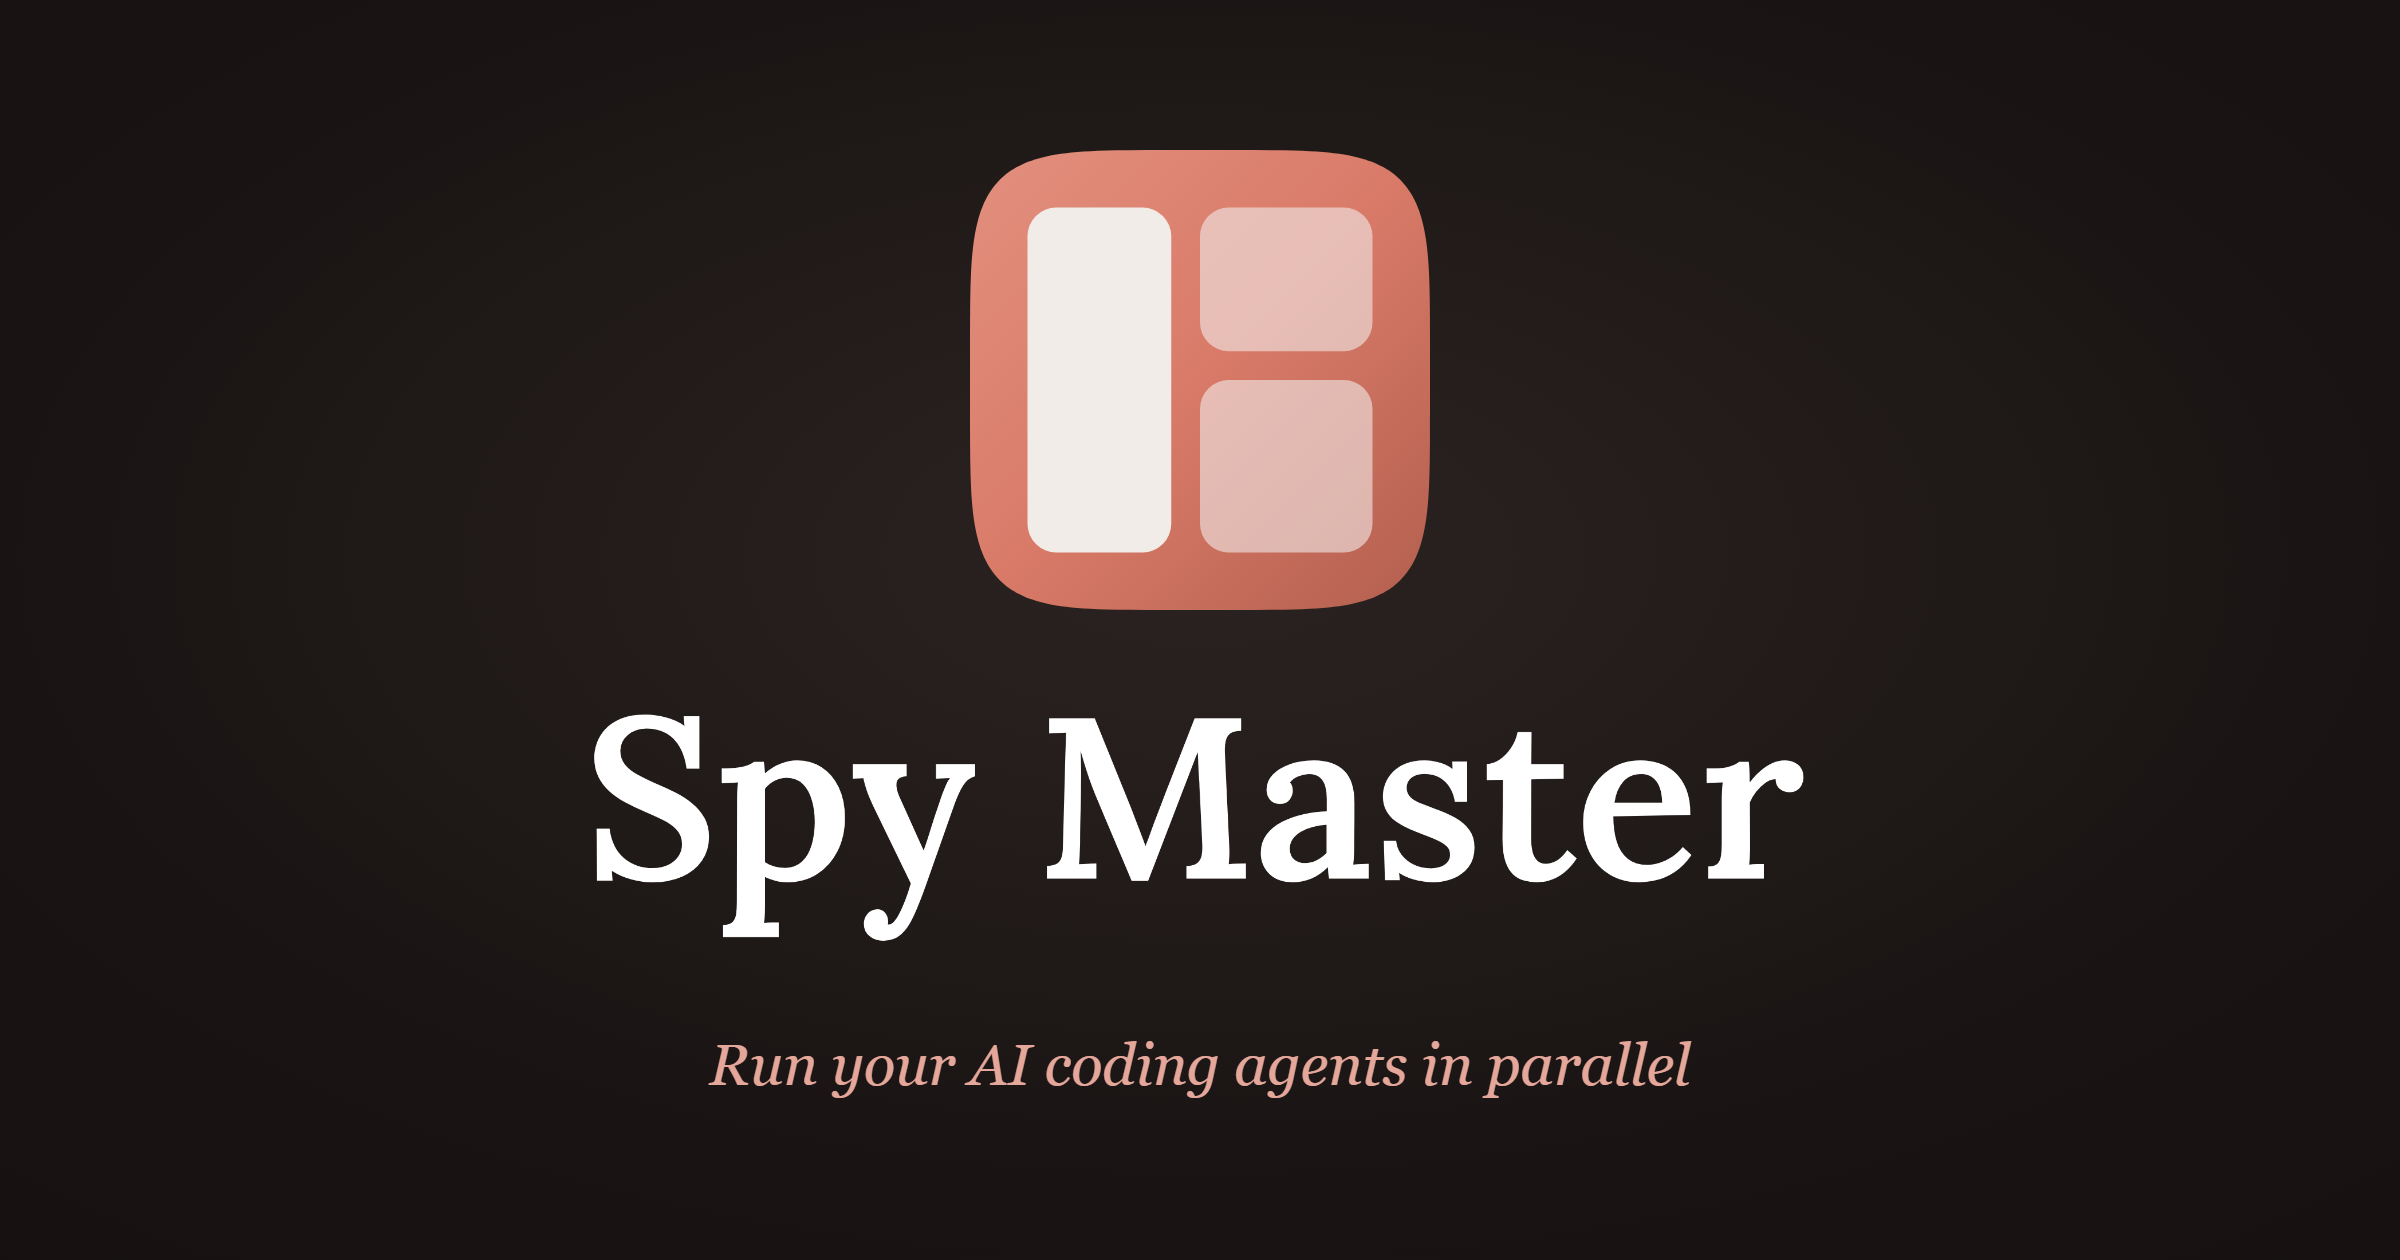
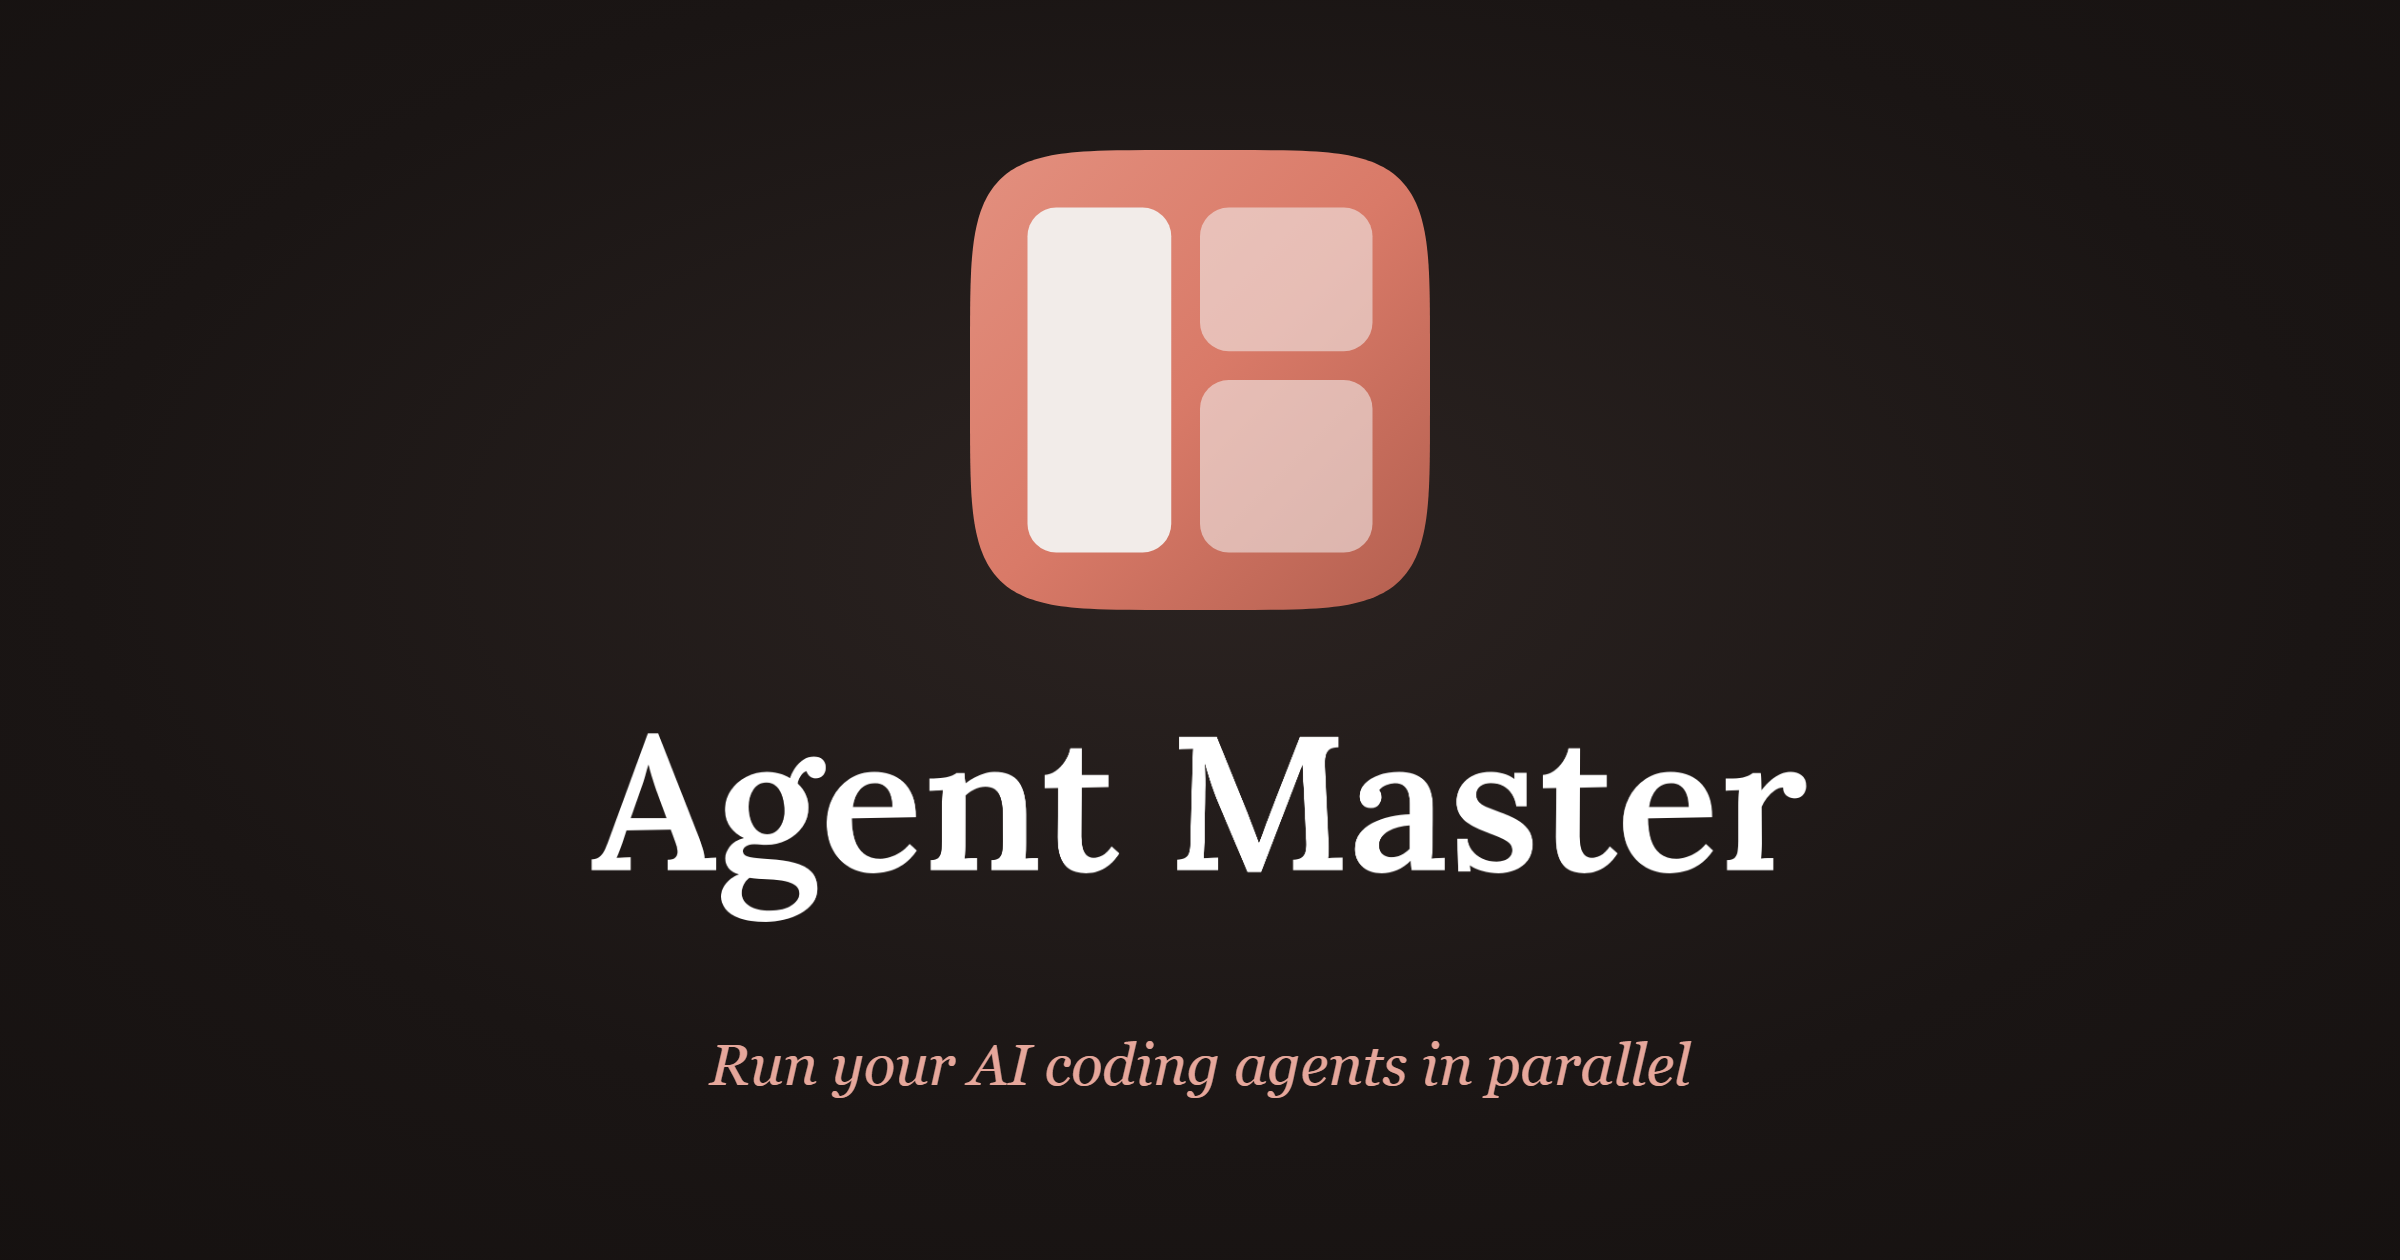
Rebrand the download site to Agent Master
Every name, URL and artifact filename moves onto the renamed repo: the
canonical and og:url become /agentmaster/, the release links point at
AgentMaster-*.dmg/.exe, and the quarantine command names the new .app.
Pages URLs do not redirect, so nothing here can be left behind.

The social card is re-rendered from the same artwork; only the embedded
wordmark changes, which already read "Agent Master" in the app.

The footer wordmark is re-fitted rather than left as-is: "Agent Master"
measures 18.5% wider than "Spy Master" at the same size, so the clamp is
scaled by that to hold the ~56% page footprint the mark has had since
"Monad". Measured in a browser at 390/768/1440/1920/2560, no horizontal
overflow at any of them.

Changed region(s): [[0.25, 0.5571, 0.75, 0.7429], [0.5, 0.5571, 0.5312, 0.5881]]

diff --git a/index.html b/index.html
@@ -3,29 +3,29 @@
   <head>
     <meta charset="utf-8" />
     <meta name="viewport" content="width=device-width, initial-scale=1" />
-    <title>Spy Master — run every coding agent in its own worktree</title>
+    <title>Agent Master — run every coding agent in its own worktree</title>
     <meta
       name="description"
-      content="Spy Master is a desktop app that runs Claude Code, Codex, Gemini and any other CLI coding agent side by side — each sealed in its own git worktree, with diff and merge built in. Free, MIT-licensed, bring your own CLIs."
+      content="Agent Master is a desktop app that runs Claude Code, Codex, Gemini and any other CLI coding agent side by side — each sealed in its own git worktree, with diff and merge built in. Free, MIT-licensed, bring your own CLIs."
     />
-    <link rel="canonical" href="https://serhiileniv.github.io/spymaster/" />
+    <link rel="canonical" href="https://serhiileniv.github.io/agentmaster/" />
     <meta name="theme-color" content="#100d0c" />
 
     <meta property="og:type" content="website" />
-    <meta property="og:site_name" content="Spy Master" />
-    <meta property="og:title" content="Spy Master — run every coding agent in its own worktree" />
+    <meta property="og:site_name" content="Agent Master" />
+    <meta property="og:title" content="Agent Master — run every coding agent in its own worktree" />
     <meta
       property="og:description"
       content="Five agents, one repo, nothing trampled. Run your AI coding agents in parallel — isolated git worktrees, live status, diff and merge built in. Bring your own CLIs."
     />
-    <meta property="og:url" content="https://serhiileniv.github.io/spymaster/" />
+    <meta property="og:url" content="https://serhiileniv.github.io/agentmaster/" />
     <!-- Versioned filenames: unfurl caches key on the URL, so a rename is the only
          way to dislodge a preview cached under the old artwork. `-panes` supersedes
          `-spymaster`, which carried the fedora figure the icon replaced. -->
-    <meta property="og:image" content="https://serhiileniv.github.io/spymaster/og-image-panes.png" />
+    <meta property="og:image" content="https://serhiileniv.github.io/agentmaster/og-image-panes.png" />
     <meta property="og:image:width" content="2400" />
     <meta property="og:image:height" content="1260" />
-    <meta property="og:image:alt" content="Spy Master — run every coding agent at once" />
+    <meta property="og:image:alt" content="Agent Master — run every coding agent at once" />
     <meta name="twitter:card" content="summary_large_image" />
 
     <link rel="icon" href="icon-panes.png" type="image/png" />
@@ -35,11 +35,11 @@
 
     <style>
       /* ------------------------------------------------------------------
-         Spy Master — landing page. Single file, no build step, no CDN.
+         Agent Master — landing page. Single file, no build step, no CDN.
 
          Art direction, and the reasons for it:
-           - The site now speaks the app's own voice. Spy Master's entire UI is
-             set in Lora ("Spy Master Serif" in the app bundle) with a red accent
+           - The site now speaks the app's own voice. Agent Master's entire UI is
+             set in Lora ("Agent Master Serif" in the app bundle) with a red accent
              on dark; the page uses the same face and the same softened
              dark-mode red, so the download and the thing downloaded are one
              brand. No Space Grotesk, no Inter — display is Lora, body is
@@ -729,20 +729,21 @@
          against a rendered screenshot; the numbers are deliberate. */
       .wm {
         margin-top: 34px;
-        /* Raised from 0.74em with the rename: "Monad" had no descenders,
-           "Spy Master" has two, and cropping straight through the p and the y
-           reads as a bug rather than as a deliberate bleed. */
+        /* Raised from 0.74em when the name grew descenders: "Monad" had none,
+           and cropping straight through the g of "Agent" reads as a bug rather
+           than as a deliberate bleed. */
         height: 0.88em;
         overflow: hidden;
         font-family: var(--font-display);
         font-style: italic;
         font-weight: 550;
-        /* Halved from 20vw, which was tuned for a five-letter name. "Spy Master"
-           is twice as long; at 20vw it overflowed the page and rendered as
-           "Spy" with the rest clipped off both sides. ~10.5vw restores the
-           footprint the mark had before, and the max holds that width on very
-           wide screens. */
-        font-size: clamp(60px, 10.5vw, 152px);
+        /* The footprint is the constant here, not the size: every rename has
+           been re-fitted so the word occupies the same share of the page it
+           did as "Monad" (~56% at desktop widths). 20vw suited five letters;
+           "Spy Master" needed 10.5vw; "Agent Master" measures 18.5% wider
+           again, so each number is the previous one scaled by that. Re-measure
+           rather than eyeball it if the name ever changes again. */
+        font-size: clamp(51px, 8.85vw, 128px);
         line-height: 0.72;
         letter-spacing: 0.015em;
         text-align: center;
@@ -765,13 +766,13 @@
              existed because the old dark mark vanished into this dark bar; the
              terracotta tile was chosen precisely so it does not, so the header
              can show the icon the visitor is about to download. -->
-        <a class="brand" href="#top" aria-label="Spy Master — home">
+        <a class="brand" href="#top" aria-label="Agent Master — home">
           <img src="logo-mark-panes.png" alt="" width="34" height="34" />
         </a>
         <div class="nav-right">
           <a class="hide-sm" href="#how">how&nbsp;it&nbsp;works</a>
-          <a class="hide-sm" href="https://github.com/serhiileniv/spymaster/blob/main/docs/FAQ.md">FAQ</a>
-          <a class="hide-sm" href="https://github.com/serhiileniv/spymaster">GitHub</a>
+          <a class="hide-sm" href="https://github.com/serhiileniv/agentmaster/blob/main/docs/FAQ.md">FAQ</a>
+          <a class="hide-sm" href="https://github.com/serhiileniv/agentmaster">GitHub</a>
           <a class="nav-dl" href="#download">Download</a>
         </div>
       </div>
@@ -788,7 +789,7 @@
               <a
                 id="dl-primary"
                 class="btn"
-                href="https://github.com/serhiileniv/spymaster/releases/latest/download/SpyMaster-macOS-arm64.dmg"
+                href="https://github.com/serhiileniv/agentmaster/releases/latest/download/AgentMaster-macOS-arm64.dmg"
               >
                 <svg viewBox="0 0 24 24" fill="currentColor" aria-hidden="true" focusable="false">
                   <path
@@ -800,7 +801,7 @@
               <a
                 id="dl-secondary"
                 class="btn-alt"
-                href="https://github.com/serhiileniv/spymaster/releases/latest/download/SpyMaster-Windows-Setup.exe"
+                href="https://github.com/serhiileniv/agentmaster/releases/latest/download/AgentMaster-Windows-Setup.exe"
                 ><span id="dl-secondary-label">or Windows</span></a
               >
               <span class="cta-meta">
@@ -808,7 +809,7 @@
                      Releases API. It is what visitors see when that fetch
                      fails, most often the unauthenticated GitHub API's
                      60 req/hr per-IP limit, so bump it at release time. -->
-                <span id="ver-text"><b>v0.1.28</b></span>
+                <span id="ver-text"><b>v0.1.31</b></span>
               </span>
             </div>
 
@@ -821,7 +822,7 @@
         </header>
 
         <!-- ---------------------------------------------------------- demo -->
-        <section class="demo-band" aria-label="Spy Master in action">
+        <section class="demo-band" aria-label="Agent Master in action">
           <div class="demo-frame">
             <video
               class="demo"
@@ -832,7 +833,7 @@
               muted
               playsinline
               preload="metadata"
-              aria-label="Six coding agents running in parallel in Spy Master, each in its own git worktree"
+              aria-label="Six coding agents running in parallel in Agent Master, each in its own git worktree"
             ></video>
           </div>
           <p class="demo-cap">Six agents in parallel: each a real terminal, each on its own branch.</p>
@@ -888,9 +889,9 @@
               <circle cx="642" cy="170" r="5.5" fill="#ff7a6b" />
               <text x="642" y="206" text-anchor="middle" fill="#99897e">merged, by you</text>
               <!-- branch names -->
-              <text x="180" y="26" fill="#7c6e64">spymaster/gemini</text>
-              <text x="250" y="82" fill="#7c6e64">spymaster/claude</text>
-              <text x="380" y="274" fill="#7c6e64">spymaster/codex</text>
+              <text x="180" y="26" fill="#7c6e64">agentmaster/gemini</text>
+              <text x="250" y="82" fill="#7c6e64">agentmaster/claude</text>
+              <text x="380" y="274" fill="#7c6e64">agentmaster/codex</text>
               <!-- live status -->
               <circle cx="600" cy="248" r="4" fill="#86b893" />
               <text x="612" y="252.5" fill="#86b893">working</text>
@@ -936,7 +937,7 @@
 ├─ <span class="dir">.git/</span>
 ├─ <span class="yours">src/</span>                     <span class="note">← your working tree, untouched</span>
 ├─ <span class="yours">package.json</span>
-└─ <span class="dir">.spymaster-worktrees/</span>
+└─ <span class="dir">.agentmaster-worktrees/</span>
    ├─ <span class="dir">claude/</span>              <span class="on">● working</span>
    ├─ <span class="dir">codex/</span>               <span class="wait">● waiting for you</span>
    └─ <span class="dir">gemini/</span>              <span class="note">● idle</span></pre>
@@ -947,7 +948,7 @@
             <h2>Your working tree is never <em>one of them.</em></h2>
             <p>
               Running several agents on one checkout normally means they overwrite each other's edits,
-              and yours. Spy Master gives each agent <b>its own branch and its own git worktree</b>: a
+              and yours. Agent Master gives each agent <b>its own branch and its own git worktree</b>: a
               real, separate directory on disk, backed by the same repository.
             </p>
             <p>
@@ -960,7 +961,7 @@
         <!-- ----------------------------------------------------- download -->
         <section class="dl" id="download">
           <div class="dl-head">
-            <h2>Download Spy Master</h2>
+            <h2>Download Agent Master</h2>
             <p>
               Free and MIT-licensed. Runs on your machine against your repo: no account, no
               telemetry, and no inference cost, because it drives the agent CLIs you already pay for.
@@ -968,7 +969,7 @@
           </div>
 
           <p class="prereq">
-            <b>Install an agent CLI first.</b> Spy Master orchestrates the tools you already run; it
+            <b>Install an agent CLI first.</b> Agent Master orchestrates the tools you already run; it
             doesn't ship a model of its own. Have at least one of <code>claude</code>,
             <code>codex</code>, <code>gemini</code> or <code>cursor-agent</code> on your PATH, then
             open a git repo and add your first agent.
@@ -989,18 +990,18 @@
               </div>
               <div>
                 <p class="plat-note">
-                  Drag Spy Master to Applications, then run this once: macOS marks unsigned downloads
+                  Drag Agent Master to Applications, then run this once: macOS marks unsigned downloads
                   &ldquo;damaged&rdquo; until the quarantine flag is cleared.
                 </p>
                 <div class="cmd">
-                  <code id="mac-cmd">xattr -dr com.apple.quarantine "/Applications/Spy Master.app"</code>
+                  <code id="mac-cmd">xattr -dr com.apple.quarantine "/Applications/Agent Master.app"</code>
                   <button class="copy" type="button" data-copy="mac-cmd">copy</button>
                 </div>
               </div>
               <a
                 id="dl-mac-install"
                 class="btn"
-                href="https://github.com/serhiileniv/spymaster/releases/latest/download/SpyMaster-macOS-arm64.dmg"
+                href="https://github.com/serhiileniv/agentmaster/releases/latest/download/AgentMaster-macOS-arm64.dmg"
                 >Download</a
               >
             </div>
@@ -1024,16 +1025,16 @@
               <a
                 id="dl-win-install"
                 class="btn"
-                href="https://github.com/serhiileniv/spymaster/releases/latest/download/SpyMaster-Windows-Setup.exe"
+                href="https://github.com/serhiileniv/agentmaster/releases/latest/download/AgentMaster-Windows-Setup.exe"
                 >Download</a
               >
             </div>
           </div>
 
           <div class="dl-foot">
-            <a href="https://github.com/serhiileniv/spymaster/releases">all releases &amp; checksums</a>
-            <a href="https://github.com/serhiileniv/spymaster/blob/main/docs/FAQ.md">FAQ</a>
-            <a href="https://github.com/serhiileniv/spymaster/issues">report a bug</a>
+            <a href="https://github.com/serhiileniv/agentmaster/releases">all releases &amp; checksums</a>
+            <a href="https://github.com/serhiileniv/agentmaster/blob/main/docs/FAQ.md">FAQ</a>
+            <a href="https://github.com/serhiileniv/agentmaster/issues">report a bug</a>
           </div>
         </section>
       </div>
@@ -1043,21 +1044,21 @@
       <div class="wrap">
         <div class="foot-meta">
           <span>Built by Serhii Leniv · MIT</span>
-          <a href="https://github.com/serhiileniv/spymaster">GitHub</a>
-          <a href="https://github.com/serhiileniv/spymaster/releases">changelog</a>
+          <a href="https://github.com/serhiileniv/agentmaster">GitHub</a>
+          <a href="https://github.com/serhiileniv/agentmaster/releases">changelog</a>
         </div>
       </div>
-      <div class="wm" aria-hidden="true">Spy Master</div>
+      <div class="wm" aria-hidden="true">Agent Master</div>
     </footer>
 
     <script>
       // ---- Download UX: detect OS, order the buttons, resolve live assets ----
       (function () {
-        var REPO = 'serhiileniv/spymaster';
+        var REPO = 'serhiileniv/agentmaster';
         var base = 'https://github.com/' + REPO + '/releases/latest/download/';
         var assets = {
-          mac: { url: base + 'SpyMaster-macOS-arm64.dmg', label: 'Download for macOS', alt: 'or Windows', os: 'mac' },
-          win: { url: base + 'SpyMaster-Windows-Setup.exe', label: 'Download for Windows', alt: 'or macOS', os: 'win' }
+          mac: { url: base + 'AgentMaster-macOS-arm64.dmg', label: 'Download for macOS', alt: 'or Windows', os: 'mac' },
+          win: { url: base + 'AgentMaster-Windows-Setup.exe', label: 'Download for Windows', alt: 'or macOS', os: 'win' }
         };
         var ICONS = {
           mac: '<path d="M16.4 1.6c.1 1-.3 2-.9 2.7-.6.8-1.6 1.4-2.6 1.3-.1-1 .4-2 .9-2.6.6-.8 1.7-1.3 2.6-1.4zM19 17.3c-.5 1.1-.7 1.6-1.3 2.6-.9 1.4-2.1 3.1-3.6 3.1-1.3 0-1.7-.8-3.4-.8-1.8 0-2.2.8-3.5.9-1.5 0-2.6-1.5-3.5-2.9C-.1 16.6-.6 11 1.6 8c1-1.4 2.6-2.3 4.1-2.3 1.5 0 2.5.9 3.7.9 1.2 0 1.9-.9 3.7-.9 1.3 0 2.7.7 3.7 2-3.2 1.7-2.7 6.2.5 7.6z"/>',
